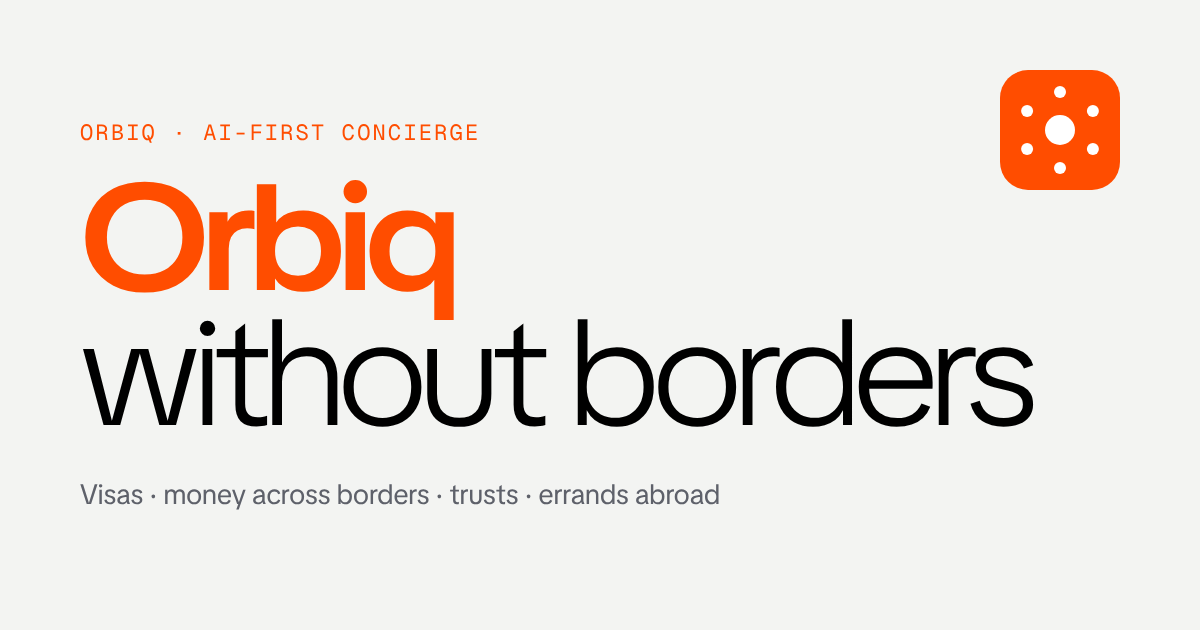
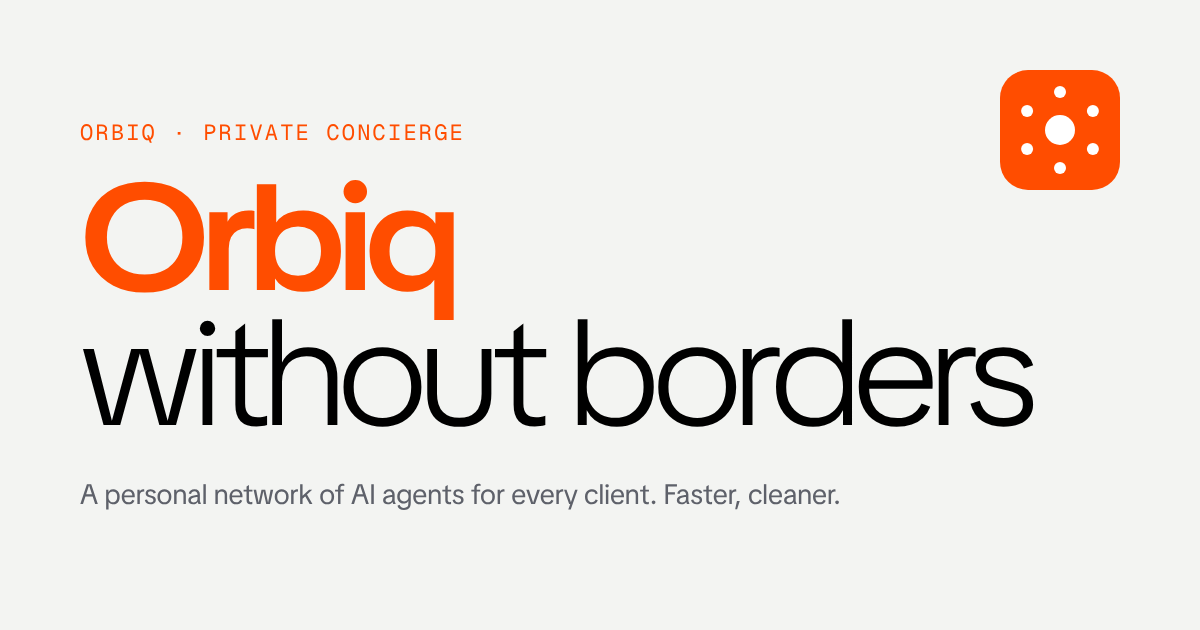
Client focus: speed and quality, personal agent network per client; remove AI-first labels
Claude-Session: https://claude.ai/code/session_01CK52meoJZ3tjSYNbcHdELs

Changed region(s): [[0.0617, 0.754, 0.7092, 0.8143], [0.1542, 0.181, 0.4008, 0.2413]]

diff --git a/ru/index.html b/ru/index.html
@@ -392,18 +392,18 @@ button{font:inherit}
 
   <section class="hero" id="top">
     <div class="h-left">
-      <div class="kick mono"><span class="dot"></span>Orbiq · <b>AI-first консьерж</b></div>
+      <div class="kick mono"><span class="dot"></span>Orbiq · <b>Личный консьерж</b></div>
       <h1 class="display" id="h1"><span class="acc">Orbiq</span><br><span class="lt">без границ</span></h1>
-      <p class="lead">Резидентство Монако, место в&nbsp;Le Rosey, Patek Philippe без листа ожидания, семейный траст на&nbsp;три поколения. Orbiq берет задачи, которые решаются только через нужных людей. AI&#8209;агенты готовят документы, партнеры в&nbsp;каждой стране открывают двери.</p>
+      <p class="lead">Резидентство Монако, место в&nbsp;Le Rosey, Patek Philippe без листа ожидания, семейный траст на&nbsp;три поколения. Под каждого клиента Orbiq разворачивает личную сеть AI&#8209;агентов. Они ведут все задачи параллельно, днем и&nbsp;ночью, поэтому быстрее и&nbsp;точнее. Партнеры в&nbsp;каждой стране открывают нужные двери.</p>
       <div class="kpis">
-        <a class="kpi" href="#model"><b class="num">24/7</b><span>AI&#8209;агенты на&nbsp;связи</span></a>
-        <a class="kpi" href="#chatfilm"><b class="num"><span class="cu" data-to="1">1</span></b><span>чат на любую задачу</span></a>
+        <a class="kpi" href="#model"><b class="num">24/7</b><span>всегда на&nbsp;связи</span></a>
+        <a class="kpi" href="#chatfilm"><b class="num"><span class="cu" data-to="1">1</span></b><span>личная сеть агентов на&nbsp;клиента</span></a>
         <a class="kpi" href="#portfolio"><b class="num">SG</b><span>своя визовая лицензия</span></a>
       </div>
     </div>
     <div class="h-right">
       <div class="bx" id="bx">
-        <div class="bx-h"><span class="mono">Задачи через границу</span><span class="mono live"><i></i>AI-агенты в работе</span></div>
+        <div class="bx-h"><span class="mono">Задачи через границу</span><span class="mono live"><i></i>Личная сеть агентов в работе</span></div>
         <div class="bx-stage" aria-label="Задачи пересекают границу и выполняются: переводы, ВНЖ, трасты, школы, клиники, документы">
           <span class="mono bx-a">Запрос</span><span class="mono bx-b">Готово</span>
           <div class="bx-line"><span class="mono">Граница</span><div class="bx-ai">AI</div></div>
@@ -439,9 +439,9 @@ button{font:inherit}
       <div class="xb"><span class="mono">Недвижимость</span><b>Вне рынка</b><p>Виллы и пентхаусы, которых нет в открытой продаже: Марбелья, Монако, One Hyde Park в Лондоне</p></div>
     </div>
     <div class="xb-syn">
-      <div><span class="mono">Как работаем 1</span><b>Один чат на все</b><p>Менеджер и AI-агенты в одном чате. Статусы, документы и сроки собраны в одной переписке.</p></div>
-      <div><span class="mono">Как работаем 2</span><b>Партнеры с лицензией в каждой стране</b><p>Трастовые, платежные и юридические компании, визовые центры. Подбираем и проверяем под каждую задачу.</p></div>
-      <div><span class="mono">Как работаем 3</span><b>AI-агенты 24/7</b><p>Агенты собирают документы, сверяют требования двух стран и следят за каждым шагом днем и ночью.</p></div>
+      <div><span class="mono">Скорость</span><b>Личная сеть AI-агентов</b><p>Под каждого клиента разворачиваем свою сеть агентов. Они ведут все задачи параллельно, сверяют документы двух стран и не пропускают ни одного срока.</p></div>
+      <div><span class="mono">Доступ</span><b>Партнеры с лицензией в каждой стране</b><p>Трастовые, платежные и юридические компании, визовые центры. Подбираем и проверяем под каждую задачу.</p></div>
+      <div><span class="mono">Качество</span><b>Один чат на все</b><p>Личный менеджер и сеть агентов в одном чате. Статусы, документы и сроки собраны в одной переписке.</p></div>
     </div>
   </section>
 
@@ -476,7 +476,7 @@ button{font:inherit}
           <ol class="tl-steps">
             <li data-s="1"><b>Стандарт.</b> Рестораны, отели, билеты. С этим справляется любой консьерж.</li>
             <li data-s="2"><b>Нестандарт.</b> Деньги, документы, люди и вещи через границу. Консьерж банка остается в правилах и лимитах своего банка.</li>
-            <li data-s="3"><b>Orbiq.</b> Лицензированные партнеры во многих странах и AI-агенты. У каждой задачи свой маршрут.</li>
+            <li data-s="3"><b>Orbiq.</b> Партнеры во многих странах и личная сеть агентов клиента. У каждой задачи свой маршрут, и он короче.</li>
           </ol>
           <div class="seg tl-seg" role="group" aria-label="Пример"><button type="button" data-x="money" aria-pressed="true">Пример: деньги</button><button type="button" data-x="visa" aria-pressed="false">Пример: визы</button></div>
           <p class="tl-ex" id="tlex"></p>
@@ -501,7 +501,7 @@ button{font:inherit}
             <h3>Три задачи через границу в&nbsp;одном чате</h3>
           </div>
           <div class="r">
-            <p>Так выглядит работа: один запрос, AI-агенты и партнеры в двух странах, статус каждой задачи в чате.</p>
+            <p>Так выглядит работа: один запрос, личная сеть агентов и партнеры в двух странах, статус каждой задачи в чате.</p>
             <div class="fv-ctl">
               <button class="chip" id="cfp" type="button" aria-pressed="true"><i></i>Ролик: идет</button>
               <button class="chip" id="cfr" type="button">Сначала</button>
@@ -564,18 +564,18 @@ button{font:inherit}
       <h2 class="mask">Ком<span>пании</span></h2>
       <div class="port-k">
         <div><b class="num">SG</b><span>лицензия визового центра</span></div>
-        <div><b class="num">AI-first</b><span>компании группы</span></div>
-        <div><b class="num">6</b><span>направлений услуг</span></div>
+        <div><b class="num">24/7</b><span>всегда на связи</span></div>
+        <div><b class="num">12</b><span>направлений услуг</span></div>
       </div>
     </div>
-    <p class="xb-lead">Под каждое направление Orbiq строит отдельную AI&#8209;first компанию со своей лицензией и командой.</p>
+    <p class="xb-lead">Под каждое направление Orbiq строит отдельную компанию со своей лицензией и командой.</p>
 
     <article class="pj pg" id="pj2">
       <span class="bgn" aria-hidden="true">VISA</span>
       <div class="pj-l">
         <div class="no"><span>01 · Визы</span><span class="st">Старт: Сингапур</span></div>
         <h3>VisaTO</h3>
-        <p class="one">Визовый центр с&nbsp;лицензией в&nbsp;Сингапуре. Дальше Дубай, Таиланд, Вьетнам и&nbsp;Австралия. AI&#8209;агенты собирают документы и&nbsp;ведут каждую заявку.</p>
+        <p class="one">Визовый центр с&nbsp;лицензией в&nbsp;Сингапуре. Дальше Дубай, Таиланд, Вьетнам и&nbsp;Австралия. Агенты собирают документы и&nbsp;ведут каждую заявку.</p>
         <div class="mkt"><b class="num"><span class="cu" data-to="15.2" data-pre="$" data-dec="1">$15,2</span><small>млрд → $27,5 млрд к&nbsp;2034</small></b><span>мировой рынок визового сервиса, 2025</span></div>
         <div class="tags">
           <div class="tag"><i>Лицензия</i>Визовый центр с&nbsp;лицензией в&nbsp;Сингапуре</div>
@@ -596,7 +596,7 @@ button{font:inherit}
       <div class="pj-l">
         <div class="no"><span>02 · AdTech · трафик для группы</span><span class="st">Прибыль $1,7 млн</span></div>
         <h3>MAST</h3>
-        <p class="one">AI-first монетизация сайтов.<br>Клиенты — паблишеры, владельцы сайтов. Они зарабатывают на&nbsp;30–80% больше за&nbsp;счет технологий MAST.<br>Ноль сотрудников: всю работу делают AI&#8209;агенты MAST.</p>
+        <p class="one">Монетизация сайтов.<br>Клиенты — паблишеры, владельцы сайтов. Они зарабатывают на&nbsp;30–80% больше за&nbsp;счет технологий MAST.<br>Ноль сотрудников: всю работу делают AI&#8209;агенты MAST.</p>
         <div class="mkt"><b class="num"><span class="cu" data-to="134.8" data-pre="$" data-dec="1">$134,8</span><small>млрд</small></b><span>программатик-реклама только в США, 2024</span></div>
         <div class="tags">
           <div class="tag"><i>Трекшн</i>Прибыль $1,7&nbsp;млн, оценка $7&nbsp;млн</div>
@@ -665,7 +665,7 @@ button{font:inherit}
   /* TAIL: pareto explainer */
   var TB=$('tbars'),NB=48,BARS=[],BX0=34,BW=(688-34)/NB;
   for(var bi=0;bi<NB;bi++){var vv=1/Math.pow(bi+1,.85),hh=Math.max(7,vv*290);BARS.push({h:hh,r:el('rect',{x:(BX0+(NB-1-bi)*BW).toFixed(1),width:(BW-3).toFixed(1),rx:2.5,y:340,height:0},TB),core:bi<10})}
-  var TX={money:{core:'Рестораны, отели, билеты',tail:'Переводы, платежи, трасты',ex:'<b>Деньги.</b> Отель и ресторан — стандартные запросы. Оплата учебы за границей, поддержка семьи в другой стране, траст для наследников — нестандартные задачи. Orbiq строит под них маршрут с лицензированными партнерами.'},visa:{core:'Билеты и отели',tail:'Визы, ВНЖ, гражданство',ex:'<b>Визы.</b> Билет и отель — стандартные запросы. Виза, ВНЖ, переезд семьи — нестандартные: нужны документы двух стран. AI-агенты Orbiq собирают документы, визовый центр подает заявление.'}};
+  var TX={money:{core:'Рестораны, отели, билеты',tail:'Переводы, платежи, трасты',ex:'<b>Деньги.</b> Отель и ресторан — стандартные запросы. Оплата учебы за границей, поддержка семьи в другой стране, траст для наследников — нестандартные задачи. Orbiq строит под них маршрут с лицензированными партнерами.'},visa:{core:'Билеты и отели',tail:'Визы, ВНЖ, гражданство',ex:'<b>Визы.</b> Билет и отель — стандартные запросы. Виза, ВНЖ, переезд семьи — нестандартные: нужны документы двух стран. Агенты Orbiq собирают документы, визовый центр подает заявление.'}};
   var tex='money';
   function setTX(x){tex=x;$('tcoreN').textContent=TX[x].core;$('ttailN').textContent=TX[x].tail;$('tlex').innerHTML=TX[x].ex;
     document.querySelectorAll('.tl-seg button').forEach(function(b){b.setAttribute('aria-pressed',String(b.dataset.x===x))})}
@@ -717,7 +717,7 @@ button{font:inherit}
     var cm=11.33;$('crossPt').setAttribute('transform','translate('+px(cm)+' '+py(revB(cm))+')');$('crossPt').style.opacity=Math.max(0,1-k*2.2);
     $('round').setAttribute('transform','translate('+px(14)+' '+py(revA(14))+')');$('round').style.opacity=Math.max(0,k*2-1)}
   draw();
-  var SIDE=[{t:'Консьерж банка',h:'Работает в правилах одного банка',l:['Стандартные запросы закрывает быстро','Нестандартные задачи упираются в правила и лимиты банка','Набор услуг задает банк']},{t:'Orbiq',h:'Строит маршрут под каждую задачу',l:['Партнеры во многих странах: платежные, юридические, трастовые, визовые','AI-агенты готовят документы двух стран',{s:'В одном чате:',u:['статус каждой задачи','документы и сроки','один менеджер на всю семью']}],g:true}];
+  var SIDE=[{t:'Консьерж банка',h:'Работает в правилах одного банка',l:['Стандартные запросы закрывает быстро','Нестандартные задачи упираются в правила и лимиты банка','Набор услуг задает банк']},{t:'Orbiq',h:'Строит маршрут под каждую задачу',l:['Партнеры во многих странах: платежные, юридические, трастовые, визовые','Личная сеть агентов ведет все задачи параллельно',{s:'В одном чате:',u:['статус каждой задачи','документы и сроки','один менеджер на всю семью']}],g:true}];
   var side=$('side'),ba=$('ba'),cur=0,touched=false;
   function li(x){return typeof x==='string'?'<li>'+x+'</li>':'<li><span>'+x.s+'<ul>'+x.u.map(function(y){return '<li>'+y+'</li>'}).join('')+'</ul></span></li>'}
   function renderSide(v){var s=SIDE[v];side.innerHTML='<span class="t">'+s.t+'</span><h3>'+s.h+'</h3><ul>'+s.l.map(li).join('')+'</ul>'+(s.g?'<div class="goal"><span>На связи</span><b class="num">24/7</b><span>один чат на любую задачу</span></div>':'');

diff --git a/index.html b/index.html
@@ -392,18 +392,18 @@ button{font:inherit}
 
   <section class="hero" id="top">
     <div class="h-left">
-      <div class="kick mono"><span class="dot"></span>Orbiq · <b>AI-first concierge</b></div>
+      <div class="kick mono"><span class="dot"></span>Orbiq · <b>Private concierge</b></div>
       <h1 class="display" id="h1"><span class="acc">Orbiq</span><br><span class="lt">without borders</span></h1>
-      <p class="lead">A Monaco residence, a place at Le Rosey, Patek Philippe without a waitlist, a family trust for three generations. Orbiq takes the tasks that open only through the right people: AI agents prepare the documents, partners in each country open the doors.</p>
+      <p class="lead">A Monaco residence, a place at Le Rosey, Patek Philippe without a waitlist, a family trust for three generations. For every client Orbiq deploys a personal network of AI agents: they run all tasks in parallel, day and night, so everything moves faster and cleaner. Partners in each country open the doors.</p>
       <div class="kpis">
-        <a class="kpi" href="#model"><b class="num">24/7</b><span>AI agents on&nbsp;duty</span></a>
-        <a class="kpi" href="#chatfilm"><b class="num"><span class="cu" data-to="1">1</span></b><span>chat for any task</span></a>
+        <a class="kpi" href="#model"><b class="num">24/7</b><span>always on&nbsp;duty</span></a>
+        <a class="kpi" href="#chatfilm"><b class="num"><span class="cu" data-to="1">1</span></b><span>personal agent network per client</span></a>
         <a class="kpi" href="#portfolio"><b class="num">SG</b><span>own visa license</span></a>
       </div>
     </div>
     <div class="h-right">
       <div class="bx" id="bx">
-        <div class="bx-h"><span class="mono">Tasks across borders</span><span class="mono live"><i></i>AI agents at work</span></div>
+        <div class="bx-h"><span class="mono">Tasks across borders</span><span class="mono live"><i></i>Personal agent network at work</span></div>
         <div class="bx-stage" aria-label="Tasks cross the border and get done: transfers, residence, trusts, schools, clinics, documents">
           <span class="mono bx-a">Request</span><span class="mono bx-b">Done</span>
           <div class="bx-line"><span class="mono">Border</span><div class="bx-ai">AI</div></div>
@@ -439,9 +439,9 @@ button{font:inherit}
       <div class="xb"><span class="mono">Property</span><b>Off-market property</b><p>Villas and penthouses that never reach the market: Marbella, Monaco, One Hyde Park in London</p></div>
     </div>
     <div class="xb-syn">
-      <div><span class="mono">How we work 1</span><b>One chat for everything</b><p>A manager and AI agents in one chat. Statuses, documents and deadlines stay in one thread.</p></div>
-      <div><span class="mono">How we work 2</span><b>Licensed partners in each country</b><p>Trust, payment and legal companies, visa centers. We select and check them for each task.</p></div>
-      <div><span class="mono">How we work 3</span><b>AI agents 24/7</b><p>Agents collect documents, check the requirements of two countries and track every step day and night.</p></div>
+      <div><span class="mono">Speed</span><b>A personal network of AI agents</b><p>For every client we deploy their own network of agents. They run all tasks in parallel, check documents of two countries and never miss a deadline.</p></div>
+      <div><span class="mono">Access</span><b>Licensed partners in each country</b><p>Trust, payment and legal companies, visa centers. We select and check them for each task.</p></div>
+      <div><span class="mono">Quality</span><b>One chat for everything</b><p>A personal manager and the agent network in one chat. Statuses, documents and deadlines stay in one thread.</p></div>
     </div>
   </section>
 
@@ -476,7 +476,7 @@ button{font:inherit}
           <ol class="tl-steps">
             <li data-s="1"><b>Standard.</b> Restaurants, hotels, tickets. Any concierge handles them.</li>
             <li data-s="2"><b>Non&#8209;standard.</b> Money, documents, people and things across borders. A bank concierge stays within the rules and limits of its bank.</li>
-            <li data-s="3"><b>Orbiq.</b> Licensed partners in many countries and AI agents. Each task gets its own route.</li>
+            <li data-s="3"><b>Orbiq.</b> Partners in many countries and the client’s personal agent network. Each task gets its own route, faster.</li>
           </ol>
           <div class="seg tl-seg" role="group" aria-label="Example"><button type="button" data-x="money" aria-pressed="true">Example: money</button><button type="button" data-x="visa" aria-pressed="false">Example: visas</button></div>
           <p class="tl-ex" id="tlex"></p>
@@ -501,7 +501,7 @@ button{font:inherit}
             <h3>Three tasks across borders in&nbsp;one chat</h3>
           </div>
           <div class="r">
-            <p>This is how the work looks: one request, AI agents and partners in two countries, the status of each task in the chat.</p>
+            <p>This is how the work looks: one request, the client’s agent network and partners in two countries, the status of each task in the chat.</p>
             <div class="fv-ctl">
               <button class="chip" id="cfp" type="button" aria-pressed="true"><i></i>Film: playing</button>
               <button class="chip" id="cfr" type="button">Replay</button>
@@ -564,18 +564,18 @@ button{font:inherit}
       <h2 class="mask">Com<span>panies</span></h2>
       <div class="port-k">
         <div><b class="num">SG</b><span>visa center license</span></div>
-        <div><b class="num">AI-first</b><span>companies of the group</span></div>
-        <div><b class="num">6</b><span>service lines</span></div>
+        <div><b class="num">24/7</b><span>always on duty</span></div>
+        <div><b class="num">12</b><span>service lines</span></div>
       </div>
     </div>
-    <p class="xb-lead">For each service line Orbiq builds a separate AI&#8209;first company with its own license and team.</p>
+    <p class="xb-lead">For each service line Orbiq builds a separate company with its own license and team.</p>
 
     <article class="pj pg" id="pj2">
       <span class="bgn" aria-hidden="true">VISA</span>
       <div class="pj-l">
         <div class="no"><span>01 · Visas</span><span class="st">Start: Singapore</span></div>
         <h3>VisaTO</h3>
-        <p class="one">Visa center with a&nbsp;license in&nbsp;Singapore. Next: Dubai, Thailand, Vietnam and&nbsp;Australia. AI agents collect documents and track every application.</p>
+        <p class="one">Visa center with a&nbsp;license in&nbsp;Singapore. Next: Dubai, Thailand, Vietnam and&nbsp;Australia. Agents collect documents and track every application.</p>
         <div class="mkt"><b class="num"><span class="cu" data-to="15.2" data-pre="$" data-dec="1">$15.2</span><small>B → $27.5B by&nbsp;2034</small></b><span>global visa services market, 2025</span></div>
         <div class="tags">
           <div class="tag"><i>License</i>Visa center license in&nbsp;Singapore</div>
@@ -596,7 +596,7 @@ button{font:inherit}
       <div class="pj-l">
         <div class="no"><span>02 · AdTech · traffic for the group</span><span class="st">Profit $1.7M</span></div>
         <h3>MAST</h3>
-        <p class="one">AI-first website monetization.<br>Clients are publishers, website owners. They earn 30–80% more thanks to&nbsp;MAST technology.<br>Zero staff: MAST AI&#8209;agents do all the work.</p>
+        <p class="one">Website monetization.<br>Clients are publishers, website owners. They earn 30–80% more thanks to&nbsp;MAST technology.<br>Zero staff: MAST AI&#8209;agents do all the work.</p>
         <div class="mkt"><b class="num"><span class="cu" data-to="134.8" data-pre="$" data-dec="1">$134.8</span><small>B</small></b><span>programmatic advertising in the US alone, 2024</span></div>
         <div class="tags">
           <div class="tag"><i>Traction</i>Profit $1.7M, valuation $7M</div>
@@ -665,7 +665,7 @@ button{font:inherit}
   /* TAIL: pareto explainer */
   var TB=$('tbars'),NB=48,BARS=[],BX0=34,BW=(688-34)/NB;
   for(var bi=0;bi<NB;bi++){var vv=1/Math.pow(bi+1,.85),hh=Math.max(7,vv*290);BARS.push({h:hh,r:el('rect',{x:(BX0+(NB-1-bi)*BW).toFixed(1),width:(BW-3).toFixed(1),rx:2.5,y:340,height:0},TB),core:bi<10})}
-  var TX={money:{core:'Restaurants, hotels, tickets',tail:'Transfers, payments, trusts',ex:'<b>Money.</b> A hotel and a restaurant are standard requests. Tuition abroad, support for family in another country, a trust for heirs are non-standard tasks. Orbiq builds a route for them with licensed partners.'},visa:{core:'Tickets and hotels',tail:'Visas, residence, citizenship',ex:'<b>Visas.</b> A ticket and a hotel are standard requests. A visa, a residence permit, a family move are non-standard: they need the documents of two countries. Orbiq AI agents collect the documents, the visa center files the application.'}};
+  var TX={money:{core:'Restaurants, hotels, tickets',tail:'Transfers, payments, trusts',ex:'<b>Money.</b> A hotel and a restaurant are standard requests. Tuition abroad, support for family in another country, a trust for heirs are non-standard tasks. Orbiq builds a route for them with licensed partners.'},visa:{core:'Tickets and hotels',tail:'Visas, residence, citizenship',ex:'<b>Visas.</b> A ticket and a hotel are standard requests. A visa, a residence permit, a family move are non-standard: they need the documents of two countries. Orbiq agents collect the documents, the visa center files the application.'}};
   var tex='money';
   function setTX(x){tex=x;$('tcoreN').textContent=TX[x].core;$('ttailN').textContent=TX[x].tail;$('tlex').innerHTML=TX[x].ex;
     document.querySelectorAll('.tl-seg button').forEach(function(b){b.setAttribute('aria-pressed',String(b.dataset.x===x))})}
@@ -717,7 +717,7 @@ button{font:inherit}
     var cm=11.33;$('crossPt').setAttribute('transform','translate('+px(cm)+' '+py(revB(cm))+')');$('crossPt').style.opacity=Math.max(0,1-k*2.2);
     $('round').setAttribute('transform','translate('+px(14)+' '+py(revA(14))+')');$('round').style.opacity=Math.max(0,k*2-1)}
   draw();
-  var SIDE=[{t:'Bank concierge',h:'Works within the rules of one bank',l:['Handles standard requests fast','Non-standard tasks hit the rules and limits of the bank','The bank sets the list of services']},{t:'Orbiq',h:'Builds a route for each task',l:['Partners in many countries: payment, legal, trust, visa','AI agents prepare the documents of two countries',{s:'In one chat:',u:['status of each task','documents and deadlines','one manager for the whole family']}],g:true}];
+  var SIDE=[{t:'Bank concierge',h:'Works within the rules of one bank',l:['Handles standard requests fast','Non-standard tasks hit the rules and limits of the bank','The bank sets the list of services']},{t:'Orbiq',h:'Builds a route for each task',l:['Partners in many countries: payment, legal, trust, visa','A personal agent network runs all tasks in parallel',{s:'In one chat:',u:['status of each task','documents and deadlines','one manager for the whole family']}],g:true}];
   var side=$('side'),ba=$('ba'),cur=0,touched=false;
   function li(x){return typeof x==='string'?'<li>'+x+'</li>':'<li><span>'+x.s+'<ul>'+x.u.map(function(y){return '<li>'+y+'</li>'}).join('')+'</ul></span></li>'}
   function renderSide(v){var s=SIDE[v];side.innerHTML='<span class="t">'+s.t+'</span><h3>'+s.h+'</h3><ul>'+s.l.map(li).join('')+'</ul>'+(s.g?'<div class="goal"><span>On duty</span><b class="num">24/7</b><span>one chat for any task</span></div>':'');

diff --git a/_src/build.py b/_src/build.py
@@ -47,10 +47,10 @@ EN = dict(
  og='og-orbic-en.png',
  nav1='Services', nav2='Why now', nav3='Comparison', nav4='Companies',
  langchip='<a class="chip" href="/ru/" hreflang="ru" lang="ru" aria-label="Русская версия">RU</a>',
- motion_on='Motion: on', kick='AI-first concierge', h1b='without borders',
- lead='A Monaco residence, a place at Le Rosey, Patek Philippe without a waitlist, a family trust for three generations. Orbiq takes the tasks that open only through the right people: AI agents prepare the documents, partners in each country open the doors.',
- k1='AI agents on&nbsp;duty', k2='chat for any task', k3='own visa license',
- bx_h='Tasks across borders', bx_live='AI agents at work', bx_aria='Tasks cross the border and get done: transfers, residence, trusts, schools, clinics, documents',
+ motion_on='Motion: on', kick='Private concierge', h1b='without borders',
+ lead='A Monaco residence, a place at Le Rosey, Patek Philippe without a waitlist, a family trust for three generations. For every client Orbiq deploys a personal network of AI agents: they run all tasks in parallel, day and night, so everything moves faster and cleaner. Partners in each country open the doors.',
+ k1='always on&nbsp;duty', k2='personal agent network per client', k3='own visa license',
+ bx_h='Tasks across borders', bx_live='Personal agent network at work', bx_aria='Tasks cross the border and get done: transfers, residence, trusts, schools, clinics, documents',
  bx_a='Request', bx_b='Done', bx_line='Border',
  bx_items=None,
  bxf1k='Own license', bxf1v='Visas · Singapore', bxf2k='Through partners', bxf2v='Trusts, Patek, Hermès, Sotheby’s',
@@ -69,19 +69,19 @@ EN = dict(
         ('Art', 'Sotheby’s and Christie’s', 'Lot selection, bidding at Sotheby’s, Christie’s and Phillips, collection storage in the Geneva Freeport'),
         ('Events', 'Stars and events', 'Dinner with Lenny Kravitz, meeting Justin Bieber, reception with Lady Gaga, Chanel Haute Couture, Monaco Grand Prix'),
         ('Property', 'Off-market property', 'Villas and penthouses that never reach the market: Marbella, Monaco, One Hyde Park in London')]),
- syn=syn([('How we work 1', 'One chat for everything', 'A manager and AI agents in one chat. Statuses, documents and deadlines stay in one thread.'),
-          ('How we work 2', 'Licensed partners in each country', 'Trust, payment and legal companies, visa centers. We select and check them for each task.'),
-          ('How we work 3', 'AI agents 24/7', 'Agents collect documents, check the requirements of two countries and track every step day and night.')]),
+ syn=syn([('Speed', 'A personal network of AI agents', 'For every client we deploy their own network of agents. They run all tasks in parallel, check documents of two countries and never miss a deadline.'),
+          ('Access', 'Licensed partners in each country', 'Trust, payment and legal companies, visa centers. We select and check them for each task.'),
+          ('Quality', 'One chat for everything', 'A personal manager and the agent network in one chat. Statuses, documents and deadlines stay in one thread.')]),
  s1_m='01 · Why now', s1_h='Borders got higher',
  p1_n='Pain 1', p1_h='Moving money and people got harder', p1_p='Every year brings new limits:',
  p1_bars=bars(['Transfers abroad take weeks and get stuck', 'Banks close accounts without explanation', 'Fewer direct flights, longer routes', 'Visa refusals and queues at consulates', 'Residence and citizenship rules change every year', 'Capital needs protection in several jurisdictions']),
  p2_n='Pain 2', p2_h='Deadlines stay the same', p2_p='Tuition, surgery, a deal, a family event: the date is set, the route changes every month',
  p3_n='Pain 3', p3_h='A bank concierge works within the rules of its bank',
- p3_steps=steps(['<b>Standard.</b> Restaurants, hotels, tickets. Any concierge handles them.', '<b>Non&#8209;standard.</b> Money, documents, people and things across borders. A bank concierge stays within the rules and limits of its bank.', '<b>Orbiq.</b> Licensed partners in many countries and AI agents. Each task gets its own route.']),
+ p3_steps=steps(['<b>Standard.</b> Restaurants, hotels, tickets. Any concierge handles them.', '<b>Non&#8209;standard.</b> Money, documents, people and things across borders. A bank concierge stays within the rules and limits of its bank.', '<b>Orbiq.</b> Partners in many countries and the client’s personal agent network. Each task gets its own route, faster.']),
  p3_seg_aria='Example', p3_seg1='Example: money', p3_seg2='Example: visas',
  tail_aria='Requests by type: standard on the right, non-standard on the left', tail_core='STANDARD REQUESTS', tail_tail='NON-STANDARD TASKS',
  tail_bl='NON-STANDARD · EACH TASK IS UNIQUE', tail_br='STANDARD · EVERY DAY',
- cf_n='One family · 30 seconds', cf_h='Three tasks across borders in&nbsp;one chat', cf_p='This is how the work looks: one request, AI agents and partners in two countries, the status of each task in the chat.',
+ cf_n='One family · 30 seconds', cf_h='Three tasks across borders in&nbsp;one chat', cf_p='This is how the work looks: one request, the client’s agent network and partners in two countries, the status of each task in the chat.',
  cf_playing='Film: playing', cf_paused='Film: paused', cf_replay='Replay', cf_online='online 24/7', cf_board='Tasks · live', cf_demo='Demo',
  s2_m='02 · Comparison', s2_h='A bank concierge and&nbsp;Orbiq', s2_seg_aria='Concierge', s2_seg1='Bank concierge',
  s2_aria='Share of tasks solved by task type: a bank concierge and Orbiq', s2_cross='LIMIT OF BANK RULES', s2_round='ORBIQ FINDS A ROUTE',
@@ -89,13 +89,13 @@ EN = dict(
  s3_m='03 · How a task goes', s3_h='One request, three steps', s3_p='Each step is visible in the chat: status, documents, deadline.',
  s3_aria='A task goes in three steps: request, route, result', s3_l1='REQUEST IN CHAT', s3_l2='ROUTE AND PARTNERS', s3_l3='DONE AND REPORTED', s3_step='Step',
  s4_h='Com<span>panies</span>',
- s4_k=pk([('SG', 'visa center license'), ('AI-first', 'companies of the group'), ('6', 'service lines')]),
- s4_lead='For each service line Orbiq builds a separate AI&#8209;first company with its own license and team.',
- v_no='01 · Visas', v_st='Start: Singapore', v_one='Visa center with a&nbsp;license in&nbsp;Singapore. Next: Dubai, Thailand, Vietnam and&nbsp;Australia. AI agents collect documents and track every application.',
+ s4_k=pk([('SG', 'visa center license'), ('24/7', 'always on duty'), ('12', 'service lines')]),
+ s4_lead='For each service line Orbiq builds a separate company with its own license and team.',
+ v_no='01 · Visas', v_st='Start: Singapore', v_one='Visa center with a&nbsp;license in&nbsp;Singapore. Next: Dubai, Thailand, Vietnam and&nbsp;Australia. Agents collect documents and track every application.',
  v_mk0='$15.2', v_mk1='B → $27.5B by&nbsp;2034', v_mk2='global visa services market, 2025',
  v_t1k='License', v_t1='Visa center license in&nbsp;Singapore', v_t2k='Demand', v_t2='Every international trip needs a&nbsp;visa',
  v_aria='From Singapore, an AI agent processes visas to countries worldwide', v_cnt='VISAS PROCESSED · DEMO',
- m_no='02 · AdTech · traffic for the group', m_st='Profit $1.7M', m_one='AI-first website monetization.<br>Clients are publishers, website owners. They earn 30–80% more thanks to&nbsp;MAST technology.<br>Zero staff: MAST AI&#8209;agents do all the work.',
+ m_no='02 · AdTech · traffic for the group', m_st='Profit $1.7M', m_one='Website monetization.<br>Clients are publishers, website owners. They earn 30–80% more thanks to&nbsp;MAST technology.<br>Zero staff: MAST AI&#8209;agents do all the work.',
  m_mk0='$134.8', m_mk1='B', m_mk2='programmatic advertising in the US alone, 2024',
  m_t1k='Traction', m_t1='Profit $1.7M, valuation $7M', m_t2k='Role', m_t2='Paid traffic for all companies of&nbsp;the&nbsp;group',
  m_aria='MAST connects publisher websites to the ad networks of Google, Amazon, Microsoft, Magnite and Taboola, publisher income grows',
@@ -106,10 +106,10 @@ EN = dict(
  j_slots=slots(['Monaco', 'Trusts', 'Le Rosey', 'Patek', 'Hermès', 'Any task']),
  copy='Copy',
  # JS
- TX="{money:{core:'Restaurants, hotels, tickets',tail:'Transfers, payments, trusts',ex:'<b>Money.</b> A hotel and a restaurant are standard requests. Tuition abroad, support for family in another country, a trust for heirs are non-standard tasks. Orbiq builds a route for them with licensed partners.'},visa:{core:'Tickets and hotels',tail:'Visas, residence, citizenship',ex:'<b>Visas.</b> A ticket and a hotel are standard requests. A visa, a residence permit, a family move are non-standard: they need the documents of two countries. Orbiq AI agents collect the documents, the visa center files the application.'}}",
+ TX="{money:{core:'Restaurants, hotels, tickets',tail:'Transfers, payments, trusts',ex:'<b>Money.</b> A hotel and a restaurant are standard requests. Tuition abroad, support for family in another country, a trust for heirs are non-standard tasks. Orbiq builds a route for them with licensed partners.'},visa:{core:'Tickets and hotels',tail:'Visas, residence, citizenship',ex:'<b>Visas.</b> A ticket and a hotel are standard requests. A visa, a residence permit, a family move are non-standard: they need the documents of two countries. Orbiq agents collect the documents, the visa center files the application.'}}",
  cost0='LIMIT OF BANK RULES', cost1='ORBIQ · PARTNERS IN MANY COUNTRIES',
  axis="['HOTEL','FLIGHT','TRANSFER','VISA','TRUST']",
- SIDE="[{t:'Bank concierge',h:'Works within the rules of one bank',l:['Handles standard requests fast','Non-standard tasks hit the rules and limits of the bank','The bank sets the list of services']},{t:'Orbiq',h:'Builds a route for each task',l:['Partners in many countries: payment, legal, trust, visa','AI agents prepare the documents of two countries',{s:'In one chat:',u:['status of each task','documents and deadlines','one manager for the whole family']}],g:true}]",
+ SIDE="[{t:'Bank concierge',h:'Works within the rules of one bank',l:['Handles standard requests fast','Non-standard tasks hit the rules and limits of the bank','The bank sets the list of services']},{t:'Orbiq',h:'Builds a route for each task',l:['Partners in many countries: payment, legal, trust, visa','A personal agent network runs all tasks in parallel',{s:'In one chat:',u:['status of each task','documents and deadlines','one manager for the whole family']}],g:true}]",
  goal='<div class="goal"><span>On duty</span><b class="num">24/7</b><span>one chat for any task</span></div>',
  POOL=['Hermès Birkin', 'Account at a Geneva private bank', 'A place at Le Rosey', 'A drug not available at home', 'Patek Philippe 5711 without a waitlist', 'Monaco residence', 'Second opinion from Charité', 'Dinner with Lenny Kravitz', 'Family trust for three generations', 'Kashmir sapphire with a Gübelin report', 'Gulfstream G700 for the family', 'University matched to the child’s character', 'Sotheby’s lot', 'Off-market villa in Marbella', 'Rolex Daytona “Paul Newman”', 'UAE Golden Visa for 10 years', 'Surgeon in Seoul', 'Hermès Kelly', 'Family foundation in Liechtenstein', 'Meeting Justin Bieber', 'Argyle pink diamond', 'Admission to Eton', 'Access to a drug in clinical trials', 'Check-up at Mayo Clinic', 'Christie’s painting', 'Swiss lump-sum taxation', 'F.P. Journe Chronomètre Bleu', 'Penthouse at One Hyde Park', 'Reception with Lady Gaga', 'Koenigsegg Jesko', 'Oxford tuition paid in a day', 'Clinique La Prairie', 'Russian Empire coins at auction', 'Chanel Haute Couture show', 'Burmese ruby', 'Bombardier Global 7500', 'Family tax strategy across three countries', 'Art Basel preview', 'Audemars Piguet Royal Oak', 'Singapore residence for the family', 'Rare prescription drug from Switzerland', 'Lanserhof at Tegernsee', 'Table at the Monaco Grand Prix', 'Colombian emerald', 'Oxford preparation with a tutor', 'Collection storage in the Geneva Freeport', 'Limited-series Ferrari', 'Transfer for a deal in Monaco', '1937 gold sovereign', 'Stone grading at GIA', 'Account at a Singapore private bank', 'Personal security for a family trip', 'Watch authentication before purchase', 'Summer school in Switzerland', 'Genetic check-up in Zurich'],
  CF=dict(started='STARTED', done='DONE ✓', playing='Film: playing', paused='Film: paused', tasksAt=4600,
@@ -130,10 +130,10 @@ RU = dict(
  og='og-orbic-ru.png',
  nav1='Услуги', nav2='Почему сейчас', nav3='Сравнение', nav4='Компании',
  langchip='<a class="chip" href="/" hreflang="en" lang="en" aria-label="English version">EN</a>',
- motion_on='Движение: вкл', kick='AI-first консьерж', h1b='без границ',
- lead='Резидентство Монако, место в&nbsp;Le Rosey, Patek Philippe без листа ожидания, семейный траст на&nbsp;три поколения. Orbiq берет задачи, которые решаются только через нужных людей. AI&#8209;агенты готовят документы, партнеры в&nbsp;каждой стране открывают двери.',
- k1='AI&#8209;агенты на&nbsp;связи', k2='чат на любую задачу', k3='своя визовая лицензия',
- bx_h='Задачи через границу', bx_live='AI-агенты в работе', bx_aria='Задачи пересекают границу и выполняются: переводы, ВНЖ, трасты, школы, клиники, документы',
+ motion_on='Движение: вкл', kick='Личный консьерж', h1b='без границ',
+ lead='Резидентство Монако, место в&nbsp;Le Rosey, Patek Philippe без листа ожидания, семейный траст на&nbsp;три поколения. Под каждого клиента Orbiq разворачивает личную сеть AI&#8209;агентов. Они ведут все задачи параллельно, днем и&nbsp;ночью, поэтому быстрее и&nbsp;точнее. Партнеры в&nbsp;каждой стране открывают нужные двери.',
+ k1='всегда на&nbsp;связи', k2='личная сеть агентов на&nbsp;клиента', k3='своя визовая лицензия',
+ bx_h='Задачи через границу', bx_live='Личная сеть агентов в работе', bx_aria='Задачи пересекают границу и выполняются: переводы, ВНЖ, трасты, школы, клиники, документы',
  bx_a='Запрос', bx_b='Готово', bx_line='Граница',
  bx_items=None,
  bxf1k='Своя лицензия', bxf1v='Визы · Сингапур', bxf2k='Через партнеров', bxf2v='Трасты, Patek, Hermès, Sotheby’s',
@@ -152,19 +152,19 @@ RU = dict(
         ('Искусство', 'Sotheby’s и&nbsp;Christie’s', 'Подбор лота, торги Sotheby’s, Christie’s и Phillips, хранение коллекции во фрипорте Женевы'),
         ('События', 'Звезды и&nbsp;события', 'Ужин с Ленни Кравицем, встреча с Джастином Бибером, прием у Леди Гаги, показ Chanel Haute Couture, Гран-при Монако'),
         ('Недвижимость', 'Вне рынка', 'Виллы и пентхаусы, которых нет в открытой продаже: Марбелья, Монако, One Hyde Park в Лондоне')]),
- syn=syn([('Как работаем 1', 'Один чат на все', 'Менеджер и AI-агенты в одном чате. Статусы, документы и сроки собраны в одной переписке.'),
-          ('Как работаем 2', 'Партнеры с лицензией в каждой стране', 'Трастовые, платежные и юридические компании, визовые центры. Подбираем и проверяем под каждую задачу.'),
-          ('Как работаем 3', 'AI-агенты 24/7', 'Агенты собирают документы, сверяют требования двух стран и следят за каждым шагом днем и ночью.')]),
+ syn=syn([('Скорость', 'Личная сеть AI-агентов', 'Под каждого клиента разворачиваем свою сеть агентов. Они ведут все задачи параллельно, сверяют документы двух стран и не пропускают ни одного срока.'),
+          ('Доступ', 'Партнеры с лицензией в каждой стране', 'Трастовые, платежные и юридические компании, визовые центры. Подбираем и проверяем под каждую задачу.'),
+          ('Качество', 'Один чат на все', 'Личный менеджер и сеть агентов в одном чате. Статусы, документы и сроки собраны в одной переписке.')]),
  s1_m='01 · Почему сейчас', s1_h='Границы стали выше',
  p1_n='Боль 1', p1_h='Деньги и людей стало сложнее перемещать', p1_p='Каждый год приносит новые ограничения:',
  p1_bars=bars(['Переводы за границу идут неделями и зависают', 'Банки закрывают счета без объяснений', 'Прямых рейсов меньше, маршруты длиннее', 'Отказы в визах и очереди в консульствах', 'Правила ВНЖ и гражданства меняются каждый год', 'Капиталу нужна защита в нескольких юрисдикциях']),
  p2_n='Боль 2', p2_h='Сроки остаются прежними', p2_p='Учеба, операция, сделка, семейное событие: дата назначена, маршрут меняется каждый месяц',
  p3_n='Боль 3', p3_h='Консьерж банка работает в&nbsp;правилах своего банка',
- p3_steps=steps(['<b>Стандарт.</b> Рестораны, отели, билеты. С этим справляется любой консьерж.', '<b>Нестандарт.</b> Деньги, документы, люди и вещи через границу. Консьерж банка остается в правилах и лимитах своего банка.', '<b>Orbiq.</b> Лицензированные партнеры во многих странах и AI-агенты. У каждой задачи свой маршрут.']),
+ p3_steps=steps(['<b>Стандарт.</b> Рестораны, отели, билеты. С этим справляется любой консьерж.', '<b>Нестандарт.</b> Деньги, документы, люди и вещи через границу. Консьерж банка остается в правилах и лимитах своего банка.', '<b>Orbiq.</b> Партнеры во многих странах и личная сеть агентов клиента. У каждой задачи свой маршрут, и он короче.']),
  p3_seg_aria='Пример', p3_seg1='Пример: деньги', p3_seg2='Пример: визы',
  tail_aria='Запросы по типу: стандартные справа, нестандартные слева', tail_core='СТАНДАРТНЫЕ ЗАПРОСЫ', tail_tail='НЕСТАНДАРТНЫЕ ЗАДАЧИ',
  tail_bl='НЕСТАНДАРТ · КАЖДАЯ ЗАДАЧА ОСОБАЯ', tail_br='СТАНДАРТ · КАЖДЫЙ ДЕНЬ',
- cf_n='Одна семья · 30 секунд', cf_h='Три задачи через границу в&nbsp;одном чате', cf_p='Так выглядит работа: один запрос, AI-агенты и партнеры в двух странах, статус каждой задачи в чате.',
+ cf_n='Одна семья · 30 секунд', cf_h='Три задачи через границу в&nbsp;одном чате', cf_p='Так выглядит работа: один запрос, личная сеть агентов и партнеры в двух странах, статус каждой задачи в чате.',
  cf_playing='Ролик: идет', cf_paused='Ролик: пауза', cf_replay='Сначала', cf_online='на связи 24/7', cf_board='Задачи · онлайн', cf_demo='Демо',
  s2_m='02 · Сравнение', s2_h='Консьерж банка и&nbsp;Orbiq', s2_seg_aria='Консьерж', s2_seg1='Консьерж банка',
  s2_aria='Доля решенных задач по типу задачи: консьерж банка и Orbiq', s2_cross='ПРЕДЕЛ ПРАВИЛ БАНКА', s2_round='ORBIQ НАХОДИТ МАРШРУТ',
@@ -172,13 +172,13 @@ RU = dict(
  s3_m='03 · Как идет задача', s3_h='Один запрос, три шага', s3_p='Каждый шаг виден в чате: статус, документы, срок.',
  s3_aria='Задача идет в три шага: запрос, маршрут, результат', s3_l1='ЗАПРОС В ЧАТЕ', s3_l2='МАРШРУТ И ПАРТНЕРЫ', s3_l3='ГОТОВО И ОТЧЕТ', s3_step='Шаг',
  s4_h='Ком<span>пании</span>',
- s4_k=pk([('SG', 'лицензия визового центра'), ('AI-first', 'компании группы'), ('6', 'направлений услуг')]),
- s4_lead='Под каждое направление Orbiq строит отдельную AI&#8209;first компанию со своей лицензией и командой.',
- v_no='01 · Визы', v_st='Старт: Сингапур', v_one='Визовый центр с&nbsp;лицензией в&nbsp;Сингапуре. Дальше Дубай, Таиланд, Вьетнам и&nbsp;Австралия. AI&#8209;агенты собирают документы и&nbsp;ведут каждую заявку.',
+ s4_k=pk([('SG', 'лицензия визового центра'), ('24/7', 'всегда на связи'), ('12', 'направлений услуг')]),
+ s4_lead='Под каждое направление Orbiq строит отдельную компанию со своей лицензией и командой.',
+ v_no='01 · Визы', v_st='Старт: Сингапур', v_one='Визовый центр с&nbsp;лицензией в&nbsp;Сингапуре. Дальше Дубай, Таиланд, Вьетнам и&nbsp;Австралия. Агенты собирают документы и&nbsp;ведут каждую заявку.',
  v_mk0='$15,2', v_mk1='млрд → $27,5 млрд к&nbsp;2034', v_mk2='мировой рынок визового сервиса, 2025',
  v_t1k='Лицензия', v_t1='Визовый центр с&nbsp;лицензией в&nbsp;Сингапуре', v_t2k='Спрос', v_t2='Виза нужна в&nbsp;каждой международной поездке',
  v_aria='Из Сингапура AI-агент оформляет визы в страны мира', v_cnt='ОФОРМЛЕНО ВИЗ · ДЕМО',
- m_no='02 · AdTech · трафик для группы', m_st='Прибыль $1,7 млн', m_one='AI-first монетизация сайтов.<br>Клиенты — паблишеры, владельцы сайтов. Они зарабатывают на&nbsp;30–80% больше за&nbsp;счет технологий MAST.<br>Ноль сотрудников: всю работу делают AI&#8209;агенты MAST.',
+ m_no='02 · AdTech · трафик для группы', m_st='Прибыль $1,7 млн', m_one='Монетизация сайтов.<br>Клиенты — паблишеры, владельцы сайтов. Они зарабатывают на&nbsp;30–80% больше за&nbsp;счет технологий MAST.<br>Ноль сотрудников: всю работу делают AI&#8209;агенты MAST.',
  m_mk0='$134,8', m_mk1='млрд', m_mk2='программатик-реклама только в США, 2024',
  m_t1k='Трекшн', m_t1='Прибыль $1,7&nbsp;млн, оценка $7&nbsp;млн', m_t2k='Роль', m_t2='Платный трафик для всех компаний группы',
  m_aria='MAST подключает сайты паблишеров к рекламным сетям Google, Amazon, Microsoft, Magnite и Taboola, доход паблишеров растет',
@@ -188,10 +188,10 @@ RU = dict(
  j_btn='Отправить задачу', j_link='Фаундерам с лицензией в новой стране: строим компании вместе',
  j_slots=slots(['Монако', 'Трасты', 'Le Rosey', 'Patek', 'Hermès', 'Любая задача']),
  copy='Скопировать',
- TX="{money:{core:'Рестораны, отели, билеты',tail:'Переводы, платежи, трасты',ex:'<b>Деньги.</b> Отель и ресторан — стандартные запросы. Оплата учебы за границей, поддержка семьи в другой стране, траст для наследников — нестандартные задачи. Orbiq строит под них маршрут с лицензированными партнерами.'},visa:{core:'Билеты и отели',tail:'Визы, ВНЖ, гражданство',ex:'<b>Визы.</b> Билет и отель — стандартные запросы. Виза, ВНЖ, переезд семьи — нестандартные: нужны документы двух стран. AI-агенты Orbiq собирают документы, визовый центр подает заявление.'}}",
+ TX="{money:{core:'Рестораны, отели, билеты',tail:'Переводы, платежи, трасты',ex:'<b>Деньги.</b> Отель и ресторан — стандартные запросы. Оплата учебы за границей, поддержка семьи в другой стране, траст для наследников — нестандартные задачи. Orbiq строит под них маршрут с лицензированными партнерами.'},visa:{core:'Билеты и отели',tail:'Визы, ВНЖ, гражданство',ex:'<b>Визы.</b> Билет и отель — стандартные запросы. Виза, ВНЖ, переезд семьи — нестандартные: нужны документы двух стран. Агенты Orbiq собирают документы, визовый центр подает заявление.'}}",
  cost0='ПРЕДЕЛ ПРАВИЛ БАНКА', cost1='ORBIQ · ПАРТНЕРЫ ВО МНОГИХ СТРАНАХ',
  axis="['ОТЕЛЬ','ПЕРЕЛЕТ','ПЕРЕВОД','ВИЗА','ТРАСТ']",
- SIDE="[{t:'Консьерж банка',h:'Работает в правилах одного банка',l:['Стандартные запросы закрывает быстро','Нестандартные задачи упираются в правила и лимиты банка','Набор услуг задает банк']},{t:'Orbiq',h:'Строит маршрут под каждую задачу',l:['Партнеры во многих странах: платежные, юридические, трастовые, визовые','AI-агенты готовят документы двух стран',{s:'В одном чате:',u:['статус каждой задачи','документы и сроки','один менеджер на всю семью']}],g:true}]",
+ SIDE="[{t:'Консьерж банка',h:'Работает в правилах одного банка',l:['Стандартные запросы закрывает быстро','Нестандартные задачи упираются в правила и лимиты банка','Набор услуг задает банк']},{t:'Orbiq',h:'Строит маршрут под каждую задачу',l:['Партнеры во многих странах: платежные, юридические, трастовые, визовые','Личная сеть агентов ведет все задачи параллельно',{s:'В одном чате:',u:['статус каждой задачи','документы и сроки','один менеджер на всю семью']}],g:true}]",
  goal='<div class="goal"><span>На связи</span><b class="num">24/7</b><span>один чат на любую задачу</span></div>',
  POOL=['Hermès Birkin', 'Счет в частном банке Женевы', 'Место в Le Rosey', 'Препарат, которого нет в стране', 'Patek Philippe 5711 без листа ожидания', 'Резидентство Монако', 'Второе мнение онколога из Charité', 'Ужин с Ленни Кравицем', 'Семейный траст на три поколения', 'Кашмирский сапфир с сертификатом Gübelin', 'Gulfstream G700 для семьи', 'Подбор университета под характер ребенка', 'Лот Sotheby’s', 'Off-market вилла в Марбелье', 'Rolex Daytona «Paul Newman»', 'Golden Visa ОАЭ на 10 лет', 'Хирург в Сеуле', 'Hermès Kelly', 'Семейный фонд в Лихтенштейне', 'Встреча с Джастином Бибером', 'Розовый бриллиант Argyle', 'Поступление в Eton', 'Доступ к препарату из клинических испытаний', 'Check-up в Mayo Clinic', 'Картина с Christie’s', 'Швейцария по паушальному налогу', 'F.P. Journe Chronomètre Bleu', 'Пентхаус в One Hyde Park', 'Прием у Леди Гаги', 'Koenigsegg Jesko', 'Оплата обучения в Оксфорде за день', 'Clinique La Prairie', 'Монеты Российской империи на торгах', 'Показ Chanel Haute Couture', 'Бирманский рубин', 'Bombardier Global 7500', 'Налоговая стратегия семьи в трех странах', 'Превью Art Basel', 'Audemars Piguet Royal Oak', 'Резидентство Сингапура для семьи', 'Редкое лекарство по рецепту из Швейцарии', 'Lanserhof на Тегернзе', 'Стол на Гран-при Монако', 'Колумбийский изумруд', 'Подготовка к Оксфорду с тьютором', 'Хранение коллекции во фрипорте Женевы', 'Ferrari из лимитированной серии', 'Перевод на сделку в Монако', 'Золотой соверен 1937 года', 'Экспертиза камня в GIA', 'Счет в частном банке Сингапура', 'Личная охрана семьи в поездке', 'Проверка часов перед покупкой', 'Летняя школа в Швейцарии', 'Генетический чек-ап в Цюрихе'],
  CF=dict(started='НАЧАЛИ', done='ГОТОВО ✓', playing='Ролик: идет', paused='Ролик: пауза', tasksAt=4600,
